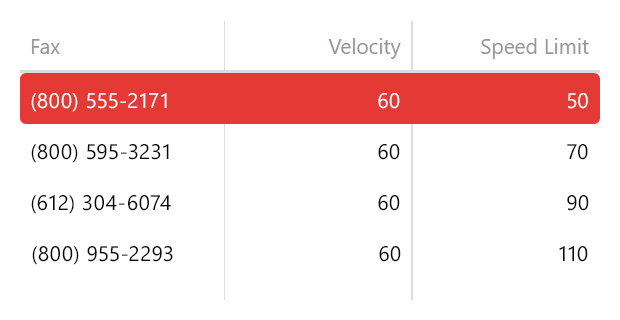
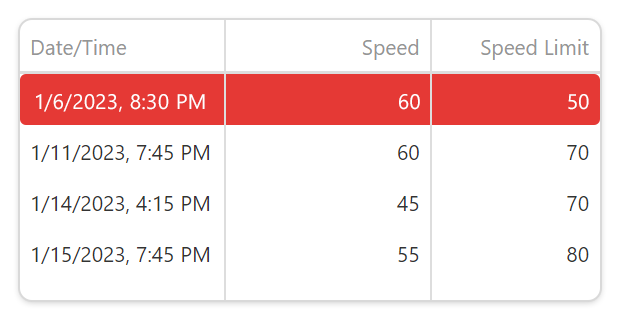
Update after the review

diff --git a/concepts/05 UI Components/DataGrid/15 Columns/40 Customize Cells/2 Customize Cell Appearance.md b/concepts/05 UI Components/DataGrid/15 Columns/40 Customize Cells/2 Customize Cell Appearance.md
@@ -1,6 +1,6 @@
 To customize cell appearance, use the [columns](/Documentation/ApiReference/UI_Components/dxDataGrid/Configuration/columns/).[cellTemplate](/api-reference/_hidden/dxDataGridColumn/cellTemplate.md '/Documentation/ApiReference/UI_Components/dxDataGrid/Configuration/columns/#cellTemplate') property or the [onCellPrepared](/api-reference/10%20UI%20Components/dxDataGrid/1%20Configuration/onCellPrepared.md '/Documentation/ApiReference/UI_Components/dxDataGrid/Configuration/#onCellPrepared') function. The [columns](/Documentation/ApiReference/UI_Components/dxDataGrid/Configuration/columns/).[cellTemplate](/api-reference/_hidden/dxDataGridColumn/cellTemplate.md '/Documentation/ApiReference/UI_Components/dxDataGrid/Configuration/columns/#cellTemplate') option allows you to replace the default cell layout with a custom markup. The [onCellPrepared](/api-reference/10%20UI%20Components/dxDataGrid/1%20Configuration/onCellPrepared.md '/Documentation/ApiReference/UI_Components/dxDataGrid/Configuration/#onCellPrepared') event handler allows you to customize the existing layout after it is generated.
 
-You can also use CSS rules and assign a class to the [cssClass](/Documentation/ApiReference/UI_Components/dxDataGrid/Configuration/columns/#cssClass) property to customize cell appearance. 
+You can also use CSS rules and assign a class to the [columns](/Documentation/ApiReference/UI_Components/dxDataGrid/Configuration/columns/).[cssClass](/Documentation/ApiReference/UI_Components/dxDataGrid/Configuration/columns/#cssClass) property to customize cell appearance. 
 
 If a customization is not immediately applied, use the [repaint()](/Documentation/ApiReference/UI_Components/dxDataGrid/Methods/#repaint) method to repaint DataGrid or the [repaintRows(rowIndexes)](/Documentation/ApiReference/UI_Components/dxDataGrid/Methods/#repaintRowsrowIndexes) method to repaint specific rows only.
 
@@ -8,9 +8,9 @@ If a customization is not immediately applied, use the [repaint()](/Documentatio
     url: "https://js.devexpress.com/Demos/WidgetsGallery/Demo/DataGrid/ColumnTemplate/"
 }
 
-The following example demonstrates how to use the [onCellPrepared](/api-reference/10%20UI%20Components/dxDataGrid/1%20Configuration/onCellPrepared.md '/Documentation/ApiReference/UI_Components/dxDataGrid/Configuration/#onCellPrepared') function to change cell color conditionally. As a result, the DataGrid component paints the cells where velocity is higher than speed limit red.
+The following example demonstrates how to use the [onCellPrepared](/api-reference/10%20UI%20Components/dxDataGrid/1%20Configuration/onCellPrepared.md '/Documentation/ApiReference/UI_Components/dxDataGrid/Configuration/#onCellPrepared') function to change cell color conditionally. As a result, the DataGrid component paints the cells where speed is higher than speed limit red.
 
-Remove the `e.column.dataField === "Velocity"` condition to apply the appearance to all cells in a row.
+Remove the `e.column.dataField === "Speed"` condition to apply the appearance to all cells in a row.
 
 ![Change Color Conditionally with onCellPrepared](/images/DataGrid/customize-appearance/onCellPrepared.png)
 
@@ -23,7 +23,7 @@ Remove the `e.column.dataField === "Velocity"` condition to apply the appearance
             // ...
             onCellPrepared: function(e) {
                 if (e.rowType === "data") {
-                    if (e.column.dataField === "Velocity" && e.data.Velocity > e.data.SpeedLimit) {
+                    if (e.column.dataField === "Speed" && e.data.Speed > e.data.SpeedLimit) {
                         e.cellElement.css({"color":"white", "background-color":"red"});
                         // or
                         e.cellElement.addClass("my-class");
@@ -45,7 +45,7 @@ Remove the `e.column.dataField === "Velocity"` condition to apply the appearance
     export class AppComponent {
         onCellPrepared (e) {
             if (e.rowType === "data") {
-                if (e.column.dataField === "Velocity" && e.data.Velocity > e.data.SpeedLimit) {
+                if (e.column.dataField === "Speed" && e.data.Speed > e.data.SpeedLimit) {
                     e.cellElement.style.cssText = "color: white; background-color: red";
                     // or
                     e.cellElement.classList.add("my-class");
@@ -75,7 +75,7 @@ Remove the `e.column.dataField === "Velocity"` condition to apply the appearance
         methods: {
             onCellPrepared(e) {
                 if (e.rowType === "data") {
-                    if (e.column.dataField === "Velocity" && e.data.Velocity > e.data.SpeedLimit) {
+                    if (e.column.dataField === "Speed" && e.data.Speed > e.data.SpeedLimit) {
                         e.cellElement.style.cssText = "color: white; background-color: red";
                         // or
                         e.cellElement.classList.add("my-class");
@@ -97,7 +97,7 @@ Remove the `e.column.dataField === "Velocity"` condition to apply the appearance
 
     const cellPrepared = (e) => {
         if (e.rowType === "data") {
-            if (e.column.dataField === "Velocity" && e.data.Velocity > e.data.SpeedLimit) {
+            if (e.column.dataField === "Speed" && e.data.Speed > e.data.SpeedLimit) {
                 e.cellElement.style.cssText = "color: white; background-color: red";
                 // or
                 e.cellElement.classList.add("my-class");
@@ -117,7 +117,9 @@ Remove the `e.column.dataField === "Velocity"` condition to apply the appearance
     
 ---
 
-The example below shows how to use the [columns](/Documentation/ApiReference/UI_Components/dxDataGrid/Configuration/columns/).[cellTemplate](/api-reference/_hidden/dxDataGridColumn/cellTemplate.md '/Documentation/ApiReference/UI_Components/dxDataGrid/Configuration/columns/#cellTemplate') property to implement the same task.
+The example below shows how to use the [columns](/Documentation/ApiReference/UI_Components/dxDataGrid/Configuration/columns/).[cellTemplate](/api-reference/_hidden/dxDataGridColumn/cellTemplate.md '/Documentation/ApiReference/UI_Components/dxDataGrid/Configuration/columns/#cellTemplate') property to implement the same task. 
+
+The [onCellPrepared](/api-reference/10%20UI%20Components/dxDataGrid/1%20Configuration/onCellPrepared.md '/Documentation/ApiReference/UI_Components/dxDataGrid/Configuration/#onCellPrepared') function allows you to apply custom styles directly to the cell element. But a [cell template](/api-reference/_hidden/dxDataGridColumn/cellTemplate.md '/Documentation/ApiReference/UI_Components/dxDataGrid/Configuration/columns/#cellTemplate') cannot access the cell element. If you create a custom cell template, it is applied to the cell after a DataGrid is rendered. This is why the image below differs from the previous image.
 
 ![Change Color Conditionally with cellTemplate](/images/DataGrid/customize-appearance/column-cellTemplate.png)
 
@@ -129,10 +131,10 @@ The example below shows how to use the [columns](/Documentation/ApiReference/UI_
         $("#dataGridContainer").dxDataGrid({
             // ...
             columns: [{
-                dataField: 'Velocity',
+                dataField: 'Speed',
                 cellTemplate: function(container, cellInfo) {
                     const valueDiv = $("<div>").text(cellInfo.value);
-                    if (cellInfo.data.Velocity > cellInfo.data.SpeedLimit) {
+                    if (cellInfo.data.Speed > cellInfo.data.SpeedLimit) {
                         valueDiv.css({"color":"white", "background-color":"red"});
                     }
                     return valueDiv;
@@ -146,11 +148,11 @@ The example below shows how to use the [columns](/Documentation/ApiReference/UI_
     <!-- tab: app.component.html -->
     <dx-data-grid ... >
         <dxi-column
-            dataField="Velocity"
+            dataField="Speed"
             cellTemplate="limitTemplate"
         ></dxi-column>
         <div *dxTemplate="let cellInfo of 'limitTemplate'">
-            <div [ngClass]="{'my-class': cellInfo.data.Velocity > cellInfo.data.SpeedLimit}">
+            <div [ngClass]="{'my-class': cellInfo.data.Speed > cellInfo.data.SpeedLimit}">
                 {{cellInfo.value}}
             </div>                                                 
         </div>
@@ -168,13 +170,13 @@ The example below shows how to use the [columns](/Documentation/ApiReference/UI_
     <template>
         <DxDataGrid ... >
             <DxColumn
-                data-field="Velocity"
+                data-field="Speed"
                 cell-template="grid-cell"
             />
             <template #grid-cell="{ data }">
                 <div
                     :class="{
-                        'my-class': cellInfo.data.Velocity > cellInfo.data.SpeedLimit,
+                        'my-class': cellInfo.data.Speed > cellInfo.data.SpeedLimit,
                     }"
                 >{{data.value}}</div>
             </template>
@@ -217,7 +219,7 @@ The example below shows how to use the [columns](/Documentation/ApiReference/UI_
 
     const renderGridCell = (data) => {
         let className = '';
-        if (cellInfo.data.Velocity > cellInfo.data.SpeedLimit) {
+        if (cellInfo.data.Speed > cellInfo.data.SpeedLimit) {
             className += 'my-class';
         }
         return <div className={className}>{cellInfo.value}</div>;
@@ -227,7 +229,7 @@ The example below shows how to use the [columns](/Documentation/ApiReference/UI_
         return (
             <DataGrid ... >
                 <Column
-                    dataField="Velocity"
+                    dataField="Speed"
                     cellRender={renderGridCell}
                 />
             </DataGrid>

diff --git a/concepts/05 UI Components/DataGrid/15 Columns/40 Customize Cells/3 Customize Row Apperance.md b/concepts/05 UI Components/DataGrid/15 Columns/40 Customize Cells/3 Customize Row Apperance.md
@@ -1,10 +1,10 @@
-To customize the existing row layout, implement the [onRowPrepared](/Documentation/ApiReference/UI_Components/dxDataGrid/Configuration/#onRowPrepared) event handler. This handler allows you to customize the existing row layout after it is generated. If a customization is not immediately applied, use the [repaintRows(rowIndexes)](/Documentation/ApiReference/UI_Components/dxDataGrid/Methods/#repaintRowsrowIndexes) method to repaint DataGrid rows.
+To customize the existing row appearance, implement the [onRowPrepared](/Documentation/ApiReference/UI_Components/dxDataGrid/Configuration/#onRowPrepared) event handler. This handler allows you to customize the existing row layout after it is generated. If a customization is not immediately applied, use the [repaintRows(rowIndexes)](/Documentation/ApiReference/UI_Components/dxDataGrid/Methods/#repaintRowsrowIndexes) method to repaint DataGrid rows.
 
 #include common-demobutton with {
     url: "https://js.devexpress.com/Demos/WidgetsGallery/Demo/DataGrid/RowTemplate/"
 }
 
-The following example demonstrates how to use the [onRowPrepared](/Documentation/ApiReference/UI_Components/dxDataGrid/Configuration/#onRowPrepared) function to change cell color conditionally. As a result, the DataGrid component paints the rows where velocity is higher than speed limit red.
+The following example demonstrates how to use the [onRowPrepared](/Documentation/ApiReference/UI_Components/dxDataGrid/Configuration/#onRowPrepared) function to change cell color conditionally. As a result, the DataGrid component paints the rows where speed is higher than speed limit red.
 
 ![Change Color Conditionally with onRowPrepared](/images/DataGrid/customize-appearance/onRowPrepared.png)
 
@@ -17,7 +17,7 @@ The following example demonstrates how to use the [onRowPrepared](/Documentation
             // ...
             onRowPrepared: function(e) {
                 if (e.rowType === "data") {
-                    if (e.data.Velocity > e.data.SpeedLimit) {
+                    if (e.data.Speed > e.data.SpeedLimit) {
                         e.rowElement.css({"color":"white", "background-color":"red"});
                         // or
                         e.rowElement.addClass("my-class");
@@ -41,7 +41,7 @@ The following example demonstrates how to use the [onRowPrepared](/Documentation
     export class AppComponent {
         onRowPrepared(e) {
             if (e.rowType === "data") {
-                if (e.data.Velocity > e.data.SpeedLimit) {
+                if (e.data.Speed > e.data.SpeedLimit) {
                     e.cellElement.style.cssText = "color: white; background-color: red";
                     // or
                     e.rowElement.classList.add("my-class");
@@ -73,7 +73,7 @@ The following example demonstrates how to use the [onRowPrepared](/Documentation
         methods: {
             onRowPrepared(e) {
                 if (e.rowType === "data") {
-                    if (e.data.Velocity > e.data.SpeedLimit) {
+                    if (e.data.Speed > e.data.SpeedLimit) {
                         e.cellElement.style.cssText = "color: white; background-color: red";
                         // or
                         e.rowElement.classList.add("my-class");
@@ -97,7 +97,7 @@ The following example demonstrates how to use the [onRowPrepared](/Documentation
 
     const rowPrepared = (e) => {
         if (e.rowType === "data") {
-            if (e.data.Velocity > e.data.SpeedLimit) {
+            if (e.data.Speed > e.data.SpeedLimit) {
                 e.cellElement.style.cssText = "color: white; background-color: red";
                 // or
                 e.rowElement.classList.add("my-class");
@@ -120,6 +120,8 @@ The following example demonstrates how to use the [onRowPrepared](/Documentation
 ---
 
 You can also use the [dataRowTemplate](/Documentation/ApiReference/UI_Components/dxDataGrid/Configuration/#dataRowTemplate) property to customize row appearance.
+
+Besides row appearance in the active state, you can also specify CSS rules for selected, focused and hovered rows.
 
 To change row selection color, use the following CSS rules:
 
